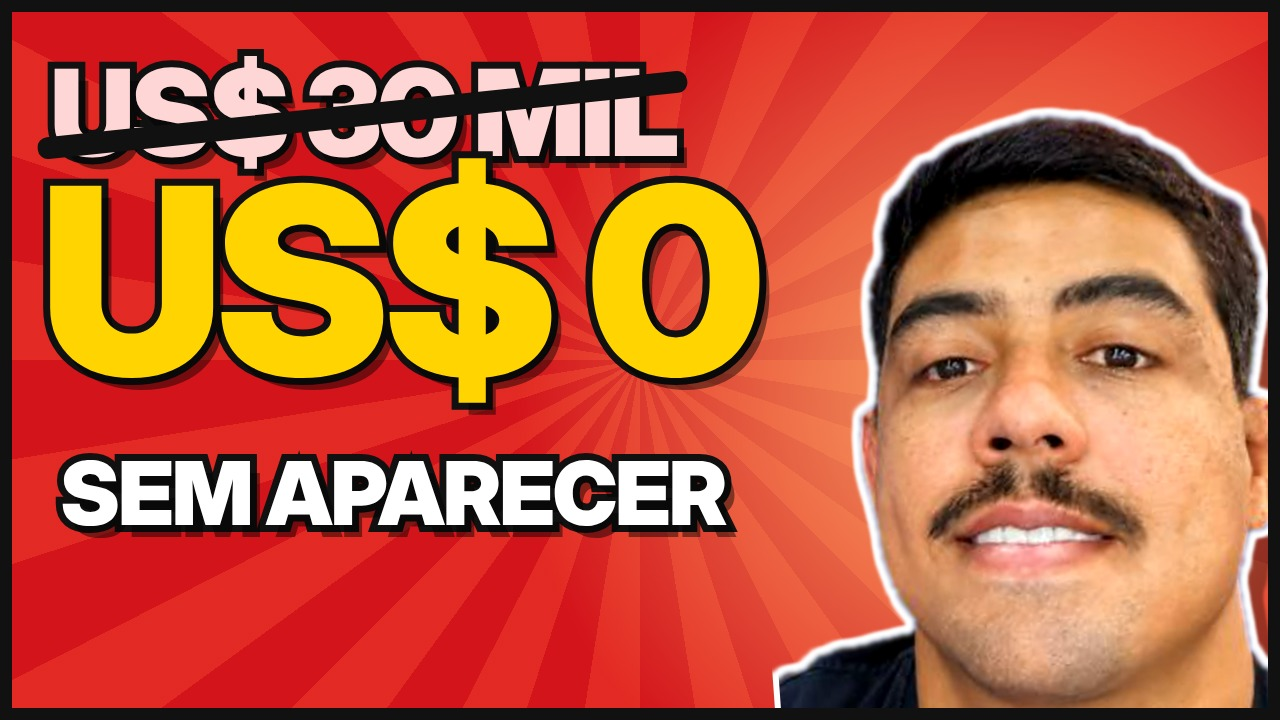
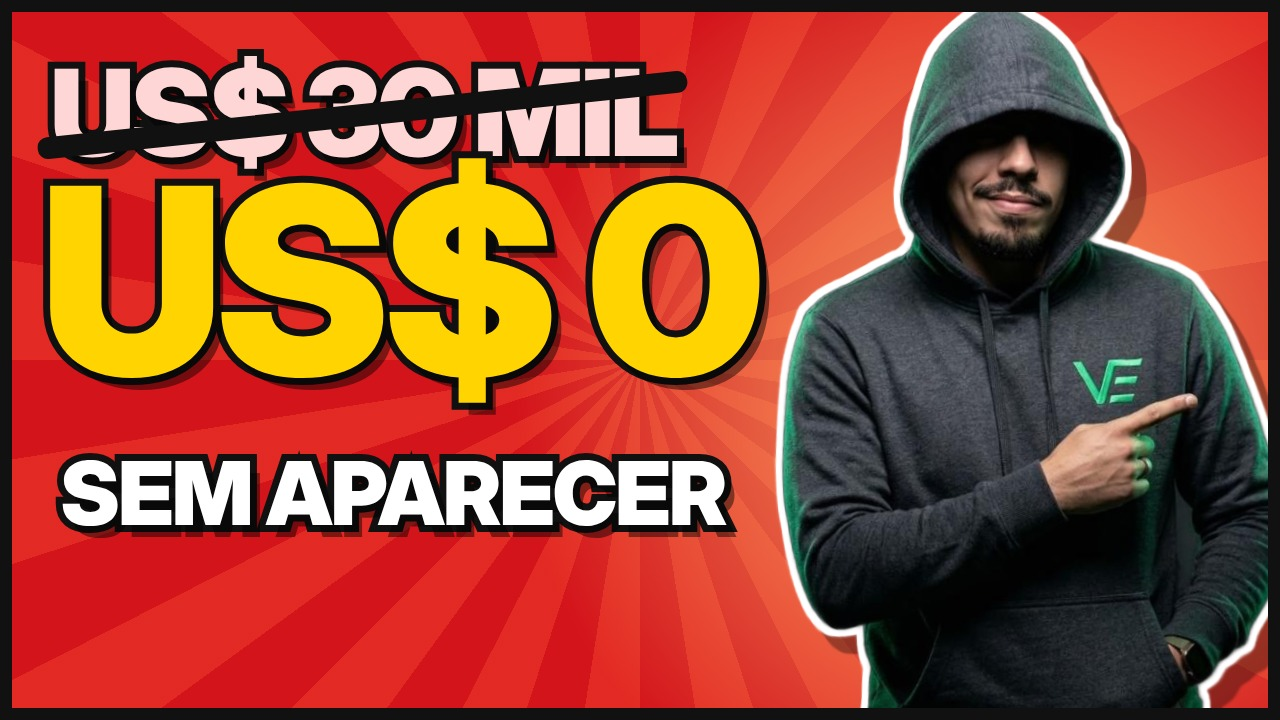
Thumb video 7: 3 opcoes com o personagem de capuz
Claude-Session: https://claude.ai/code/session_01SMH9EYQoZW8Yjy9N6aq1gr

Changed region(s): [[0.5938, 0.0, 1.0, 1.0]]

diff --git a/video-07-shorts-sem-aparecer/publicar/variacoes/c.html b/video-07-shorts-sem-aparecer/publicar/variacoes/c.html
@@ -1,14 +1,14 @@
 <!doctype html><html><head><meta charset="utf-8"><link rel="stylesheet" href="../../../canal/thumb-chamativa/base.css"><link rel="stylesheet" href="_comum.css"><style>
 :root{--bg:#d4141b;--ray:#ef3b2a}
 .glow{background:radial-gradient(circle at 78% 55%,rgba(255,200,120,.8),rgba(255,200,120,0) 45%)}
-.foto{left:760px;height:660px;transform:rotate(-4deg)}
+.foto{left:640px;height:760px;transform:rotate(-3deg)}
 .old{left:50px;top:40px;font-size:120px;letter-spacing:-4px;color:#ffd6d6}
 .old:after{content:"";position:absolute;left:-14px;right:-14px;top:44%;height:22px;background:#111;border-radius:10px;transform:rotate(-6deg)}
 .l1{left:40px;top:170px;font-size:260px;letter-spacing:-10px;line-height:.85}
 .l2{left:60px;top:440px;font-size:88px;letter-spacing:-2px}
 
 </style></head><body><div class="rays"></div><div class="glow"></div>
-<img class="foto" src="../../../canal/thumb-chamativa/rosto-patrick.png">
+<img class="foto" src="../../../canal/thumb-chamativa/capuz-patrick.png">
 <div class="fx old out">US$ 30 MIL</div>
 <div class="fx l1 out yel">US$ 0</div>
 <div class="fx l2 out">SEM APARECER</div>

diff --git a/video-07-shorts-sem-aparecer/publicar/variacoes/a.html b/video-07-shorts-sem-aparecer/publicar/variacoes/a.html
@@ -1,11 +1,11 @@
 <!doctype html><html><head><meta charset="utf-8"><link rel="stylesheet" href="../../../canal/thumb-chamativa/base.css"><link rel="stylesheet" href="_comum.css"><style>
 :root{--bg:#ff5a00;--ray:#ff8a1f}
 .glow{background:radial-gradient(circle at 72% 40%,rgba(255,230,120,.95),rgba(255,230,120,0) 45%)}
-.foto{left:770px;height:660px;transform:rotate(4deg)}
+.foto{left:620px;top:-60px;bottom:auto;height:1000px}
 .l1{left:40px;top:50px;font-size:150px;letter-spacing:-6px;line-height:.9}
 .l2{left:56px;top:230px;font-size:96px;letter-spacing:-2px}
 </style></head><body><div class="rays"></div><div class="glow"></div>
-<img class="foto" src="../../../canal/thumb-chamativa/rosto-patrick.png">
+<img class="foto" src="../../../canal/thumb-chamativa/capuz-bracos-cruzados.png">
 <div class="fx l1 out">US$ 30 MIL</div>
 <div class="fx l2 out yel">SEM APARECER?</div>
 <div class="fone" style="left:90px;top:360px;transform:rotate(-12deg)"><div class="tela"><div class="play"></div></div></div>

diff --git a/video-07-shorts-sem-aparecer/publicar/variacoes/b.html b/video-07-shorts-sem-aparecer/publicar/variacoes/b.html
@@ -1,12 +1,12 @@
 <!doctype html><html><head><meta charset="utf-8"><link rel="stylesheet" href="../../../canal/thumb-chamativa/base.css"><link rel="stylesheet" href="_comum.css"><style>
 :root{--bg:#1a0b3a;--ray:#2c1460}
 .glow{background:radial-gradient(circle at 25% 45%,rgba(160,90,255,.75),rgba(160,90,255,0) 45%)}
-.foto{left:10px;height:660px;transform:scaleX(-1) rotate(4deg)}
+.foto{left:-120px;height:760px}
 .l1{left:540px;top:60px;font-size:140px;letter-spacing:-5px;line-height:.9}
 .l2{left:510px;top:220px;font-size:128px;letter-spacing:-5px}
 .tag2{left:540px;top:420px;font-size:62px;transform:rotate(-3deg)}
 </style></head><body><div class="rays"></div><div class="glow"></div>
-<img class="foto" src="../../../canal/thumb-chamativa/rosto-patrick.png">
+<img class="foto" src="../../../canal/thumb-chamativa/capuz-bracos-cruzados.png">
 <div class="fx l1 out">SHORTS</div>
 <div class="fx l2 out yel">SEM ROSTO</div>
 <div class="fx tag2"><span class="red">DESMONETIZA?</span></div>
